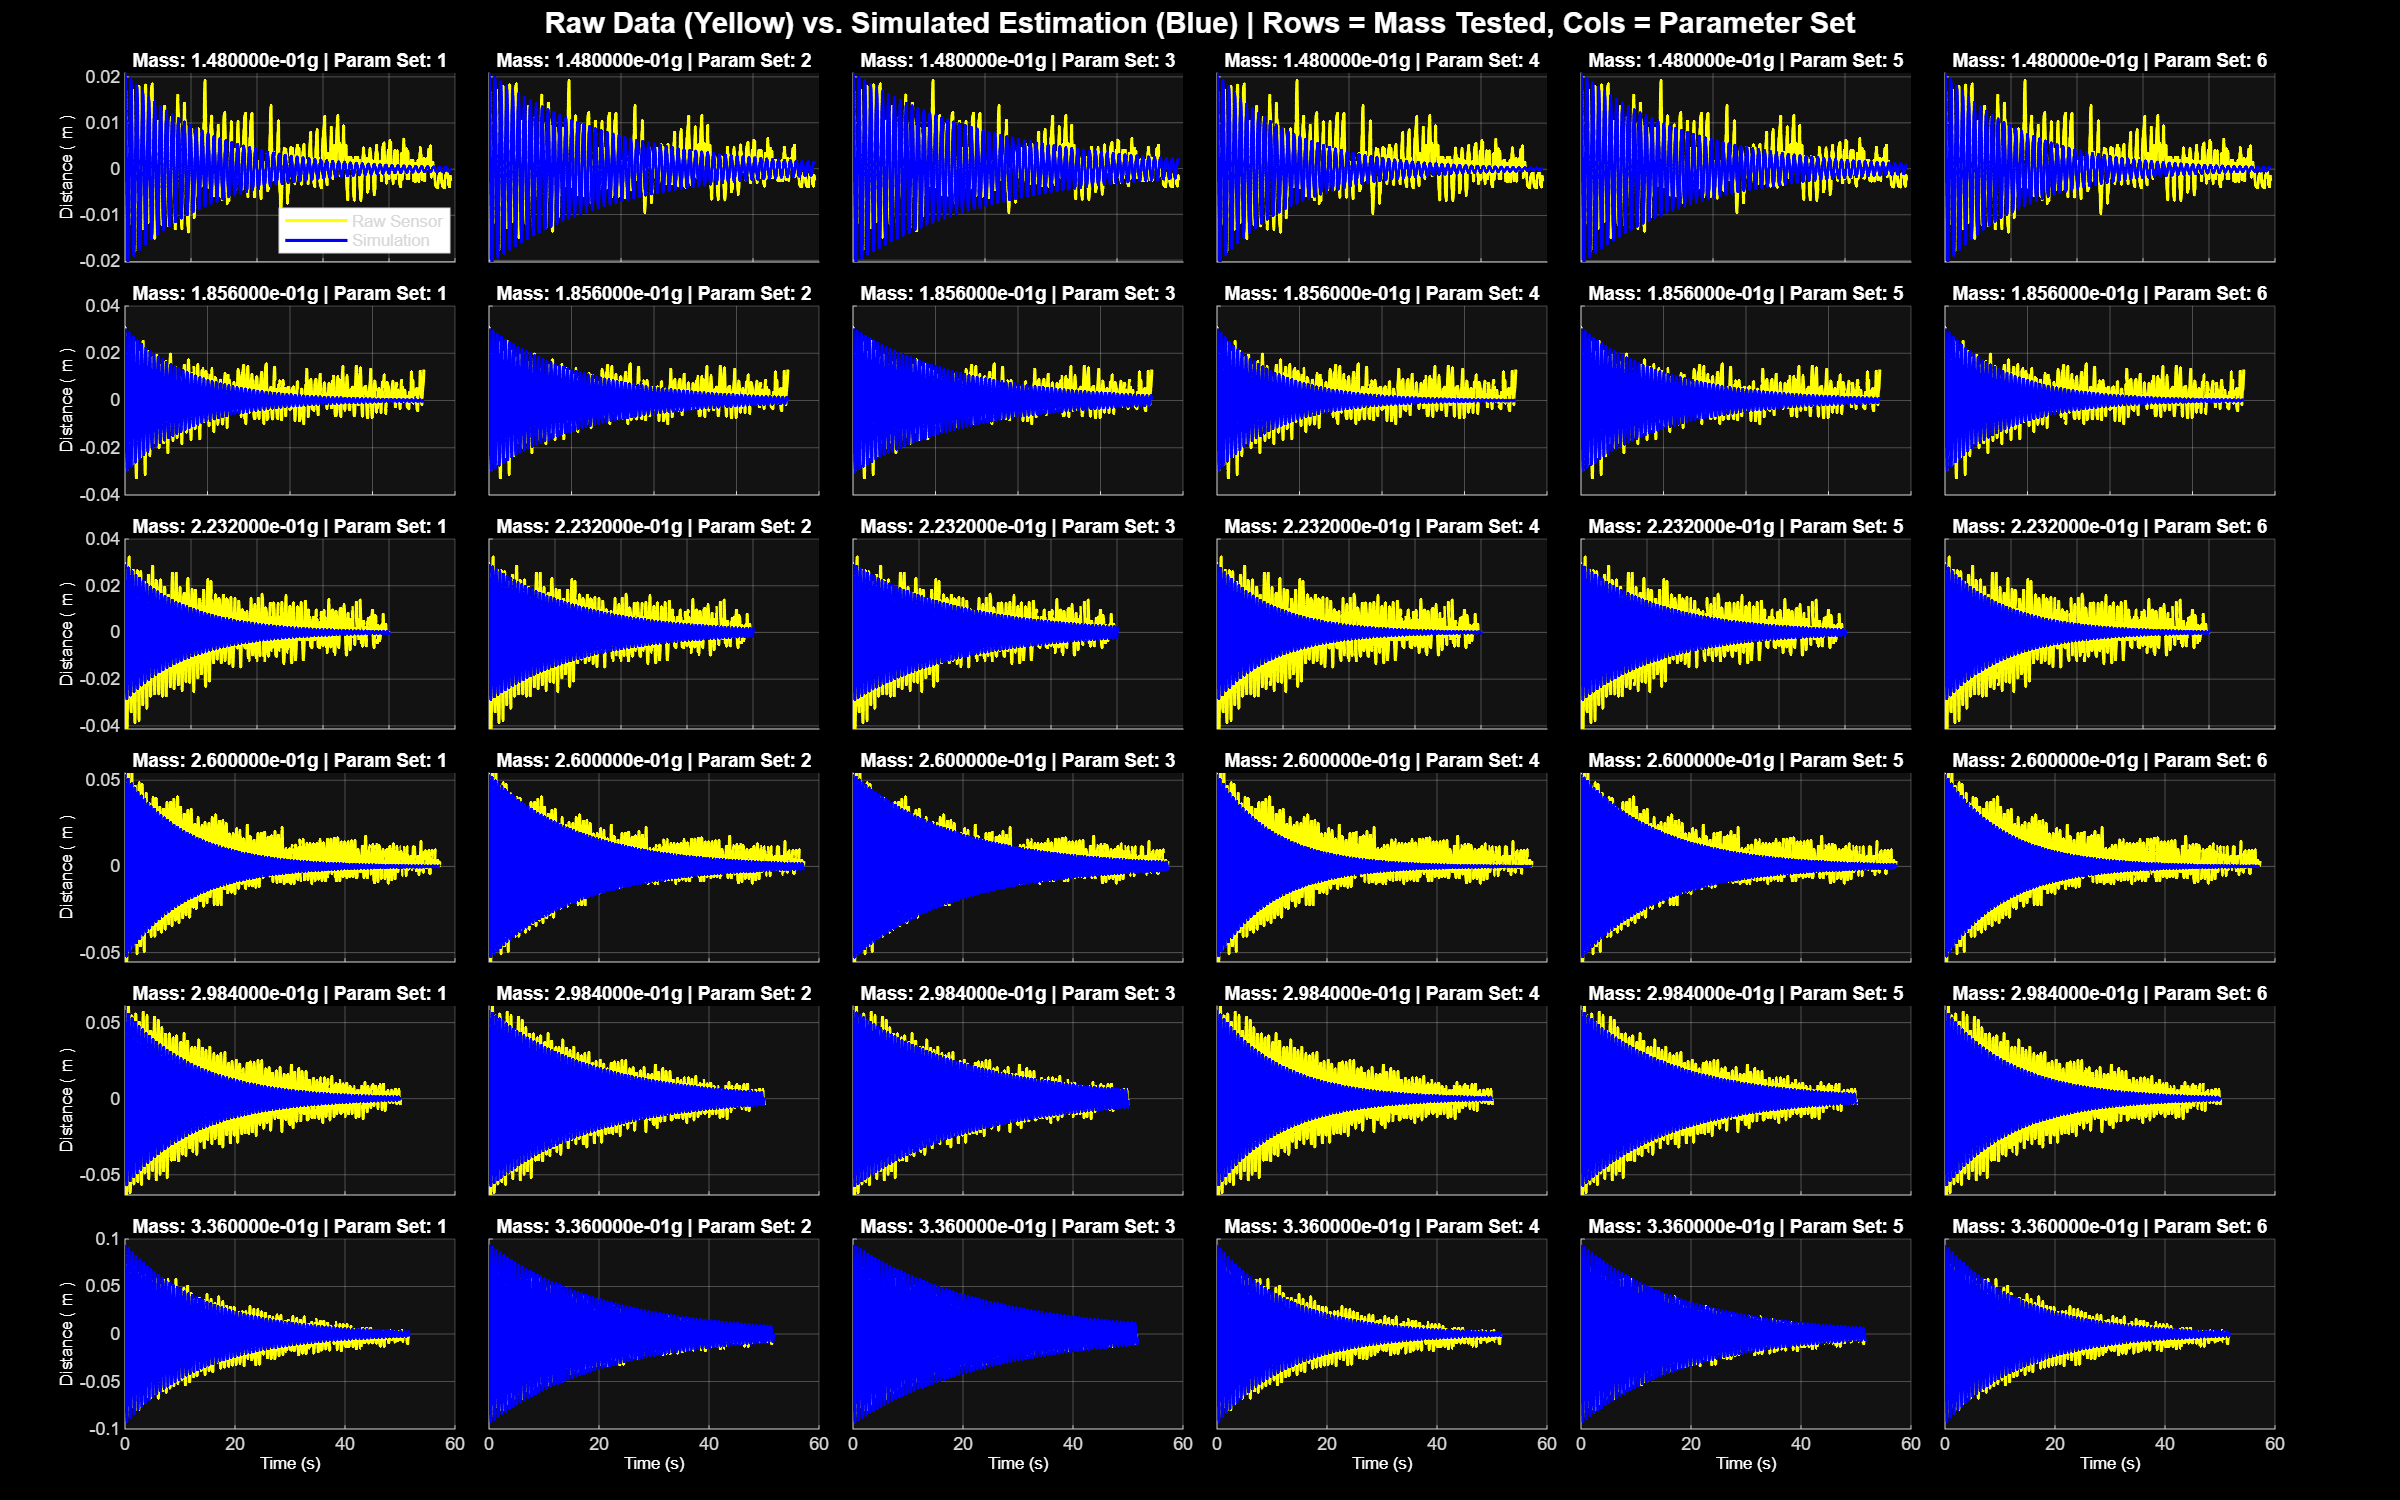
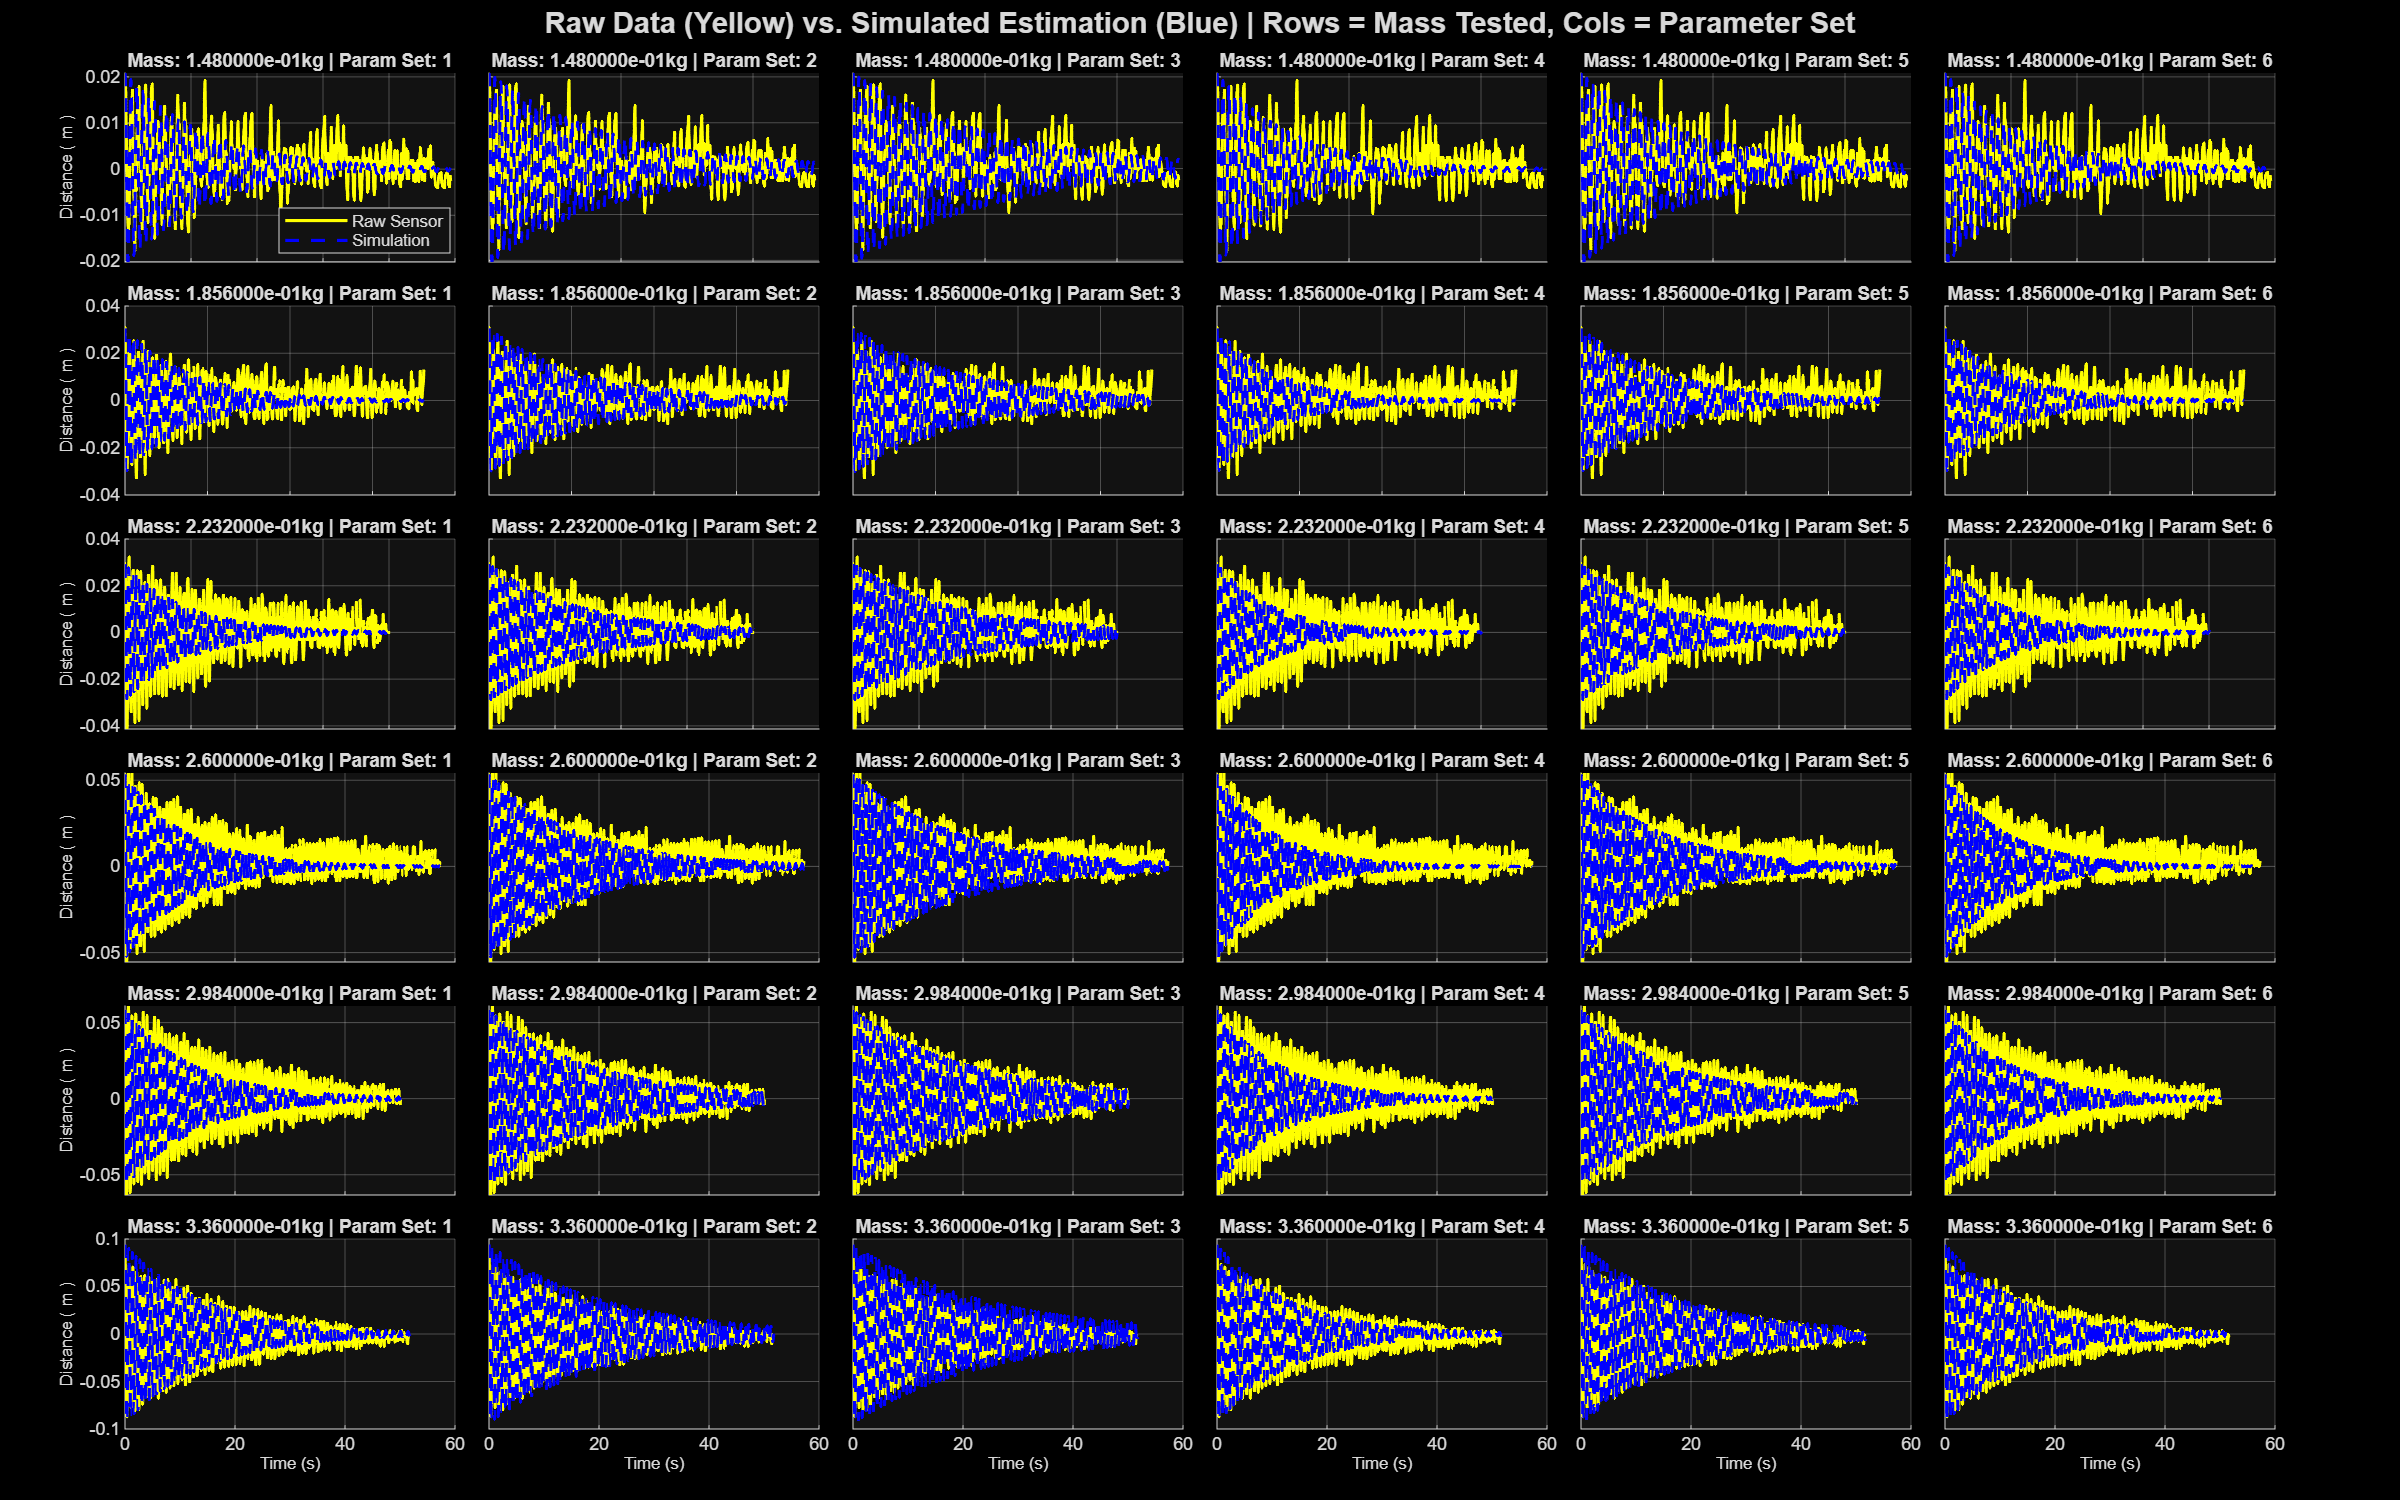
Payae

diff --git a/Matlab&simulink/Static_Script.m b/Matlab&simulink/Static_Script.m
@@ -267,8 +267,8 @@ end
 % =========================================================================
 % 5. VISUALIZATION
 % =========================================================================
-Row_Names = {'Mass_1g'; 'Mass_2g'; 'Mass_3g'; 'Mass_4g'; 'Mass_5g'; 'Mass_6g'};
-Var_Names = {'Est_Set_1', 'Est_Set_2', 'Est_Set_3', 'Est_Set_4', 'Est_Set_5', 'Est_Set_6'};
+Row_Names = {'1 nut'; '2 nut'; '3 nut'; '4 nut'; '5 nut'; '6 nut'};
+Var_Names = {'Parameter set 1', 'Parameter set 2', 'Parameter set 3', 'Parameter set 4', 'Parameter set 5', 'Parameter set 6'};
 
 % Display Tables
 disp('==================== RMSE CROSS-VALIDATION TABLE ====================');
@@ -351,7 +351,7 @@ for i = 1:6 % Rows: Physical Mass / Raw Data
         plot(current_time, current_raw_data, 'y', 'LineWidth', 1.5, 'DisplayName', 'Raw Sensor');
         plot(sim_time, sim_signal, 'b--', 'LineWidth', 1.5, 'DisplayName', 'Simulation');
         
-        title(sprintf('Mass: %dg | Param Set: %d', mass_array(i), j), 'FontSize', 9);
+        title(sprintf('Mass: %dkg | Param Set: %d', mass_array(i), j), 'FontSize', 9);
         
         if idx == 1
             legend('Location', 'best', 'FontSize', 8);
@@ -364,7 +364,7 @@ for i = 1:6 % Rows: Physical Mass / Raw Data
         end
         
         if j == 1
-            ylabel('Dist', 'FontSize', 8);
+            ylabel('Distance ( m )', 'FontSize', 8);
         else
             yticklabels({});
         end
@@ -373,3 +373,56 @@ for i = 1:6 % Rows: Physical Mass / Raw Data
         idx = idx + 1;
     end
 end
+
+
+% =========================================================================
+% 8. PLOT BAR CHARTS FOR AVERAGE RMSE AND R-SQUARED
+% =========================================================================
+fprintf('Generating Bar Charts for Averages...\n');
+
+% ---------------------------------------------------------
+% FIGURE 1: Average RMSE Bar Chart (Lower is Better)
+% ---------------------------------------------------------
+figure('Name', 'Average RMSE Comparison', 'Color', 'w');
+% Plot all bars in a standard blue color
+bar(avg_rmse, 'FaceColor', [0.2 0.6 0.8]); 
+hold on;
+
+% Highlight the best (lowest) RMSE in Red
+bar(best_rmse_idx, avg_rmse(best_rmse_idx), 'FaceColor', [0.8 0.2 0.2]); 
+
+% Format the chart
+set(gca, 'XTickLabel', strrep(Var_Names, '_', '\_'), 'XTick', 1:length(Var_Names));
+xtickangle(45);
+ylabel('Average RMSE');
+xlabel('Parameter Set Used (b, k)');
+title('Average RMSE Across All Masses (Lower is Better)');
+grid on;
+
+% Add legend with the specific winning name
+legend('All Sets', sprintf('Best Set (%s)', strrep(best_set_rmse, '_', '\_')), 'Location', 'best');
+hold off;
+
+
+% ---------------------------------------------------------
+% FIGURE 2: Average R-Squared Bar Chart (Higher is Better)
+% ---------------------------------------------------------
+figure('Name', 'Average R-Squared Comparison', 'Color', 'w');
+% Plot all bars in a standard green color to differentiate from RMSE
+bar(avg_r2, 'FaceColor', [0.2 0.8 0.4]); 
+hold on;
+
+% Highlight the best (highest) R-Squared in Red
+bar(best_r2_idx, avg_r2(best_r2_idx), 'FaceColor', [0.8 0.2 0.2]); 
+
+% Format the chart
+set(gca, 'XTickLabel', strrep(Var_Names, '_', '\_'), 'XTick', 1:length(Var_Names));
+xtickangle(45);
+ylabel('Average R-Squared');
+xlabel('Parameter Set Used (b, k)');
+title('Average R-Squared Across All Masses (Higher is Better)');
+grid on;
+
+% Add legend with the specific winning name
+legend('All Sets', sprintf('Best Set (%s)', strrep(best_set_r2, '_', '\_')), 'Location', 'best');
+hold off;
